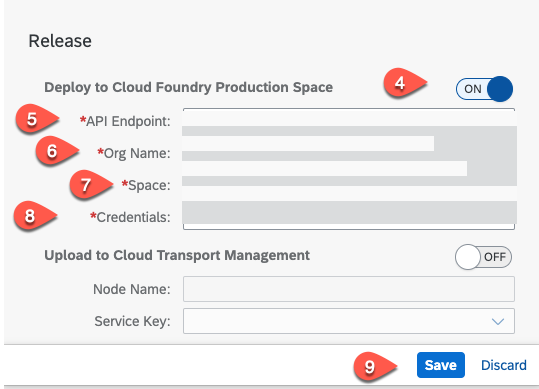
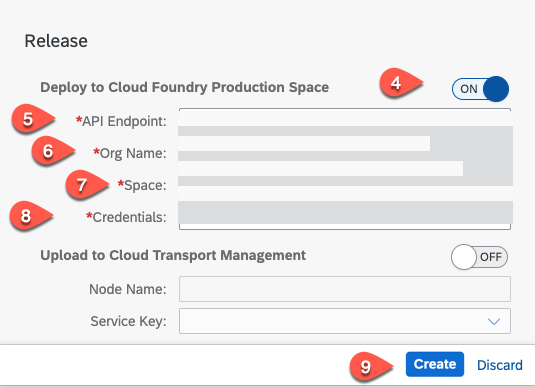
update ci cd screenshots

diff --git a/mission/ci-cd-service/README.md b/mission/ci-cd-service/README.md
@@ -108,17 +108,17 @@ We recommend using a technical user. However, you can use also use your cloud cr
     
 7. Select the **Repositories** tab and then choose the **+** icon to create a new repository.
 8. In the **Add Repository** screen enter the following values:
-   * In the **Name** field set the name for the repository for example: cloud-extension-html5-mission
+   * In the **Name** field set the name for the repository for example: cloud-extension-html5-sample
    * In the **Clone URL** set the clone URL of your GitHub repository
-   * In the **Credentials** field choose the credentials for your GitHub repository which you created in step 6  - it is necessary for private GitHub repositories.
+   * In the **Credentials** field, choose the credentials for your GitHub repository which you created in step 6  - it is necessary for private GitHub repositories.
    * In the **Type** field choose GitHub   
    * In the **Webhook Credential** field choose **\<GENERATE\>**
-   * Keep the **State** field on
+   * Keep the **State** field as **ON**
    * **Add** the repository  
    
    ![create repository](./images/repository1.png)
 
-9. Select the created repository. On the right top choose the ... and then choose **Webhook Data**.
+9. Select the created repository. On the right top choose the symbol '**...**' and then choose **Webhook Data**.
 
    ![create repository](./images/repository2.png)
 
@@ -157,7 +157,7 @@ We recommend using a technical user. However, you can use also use your cloud cr
    - In the **API Entpoint** and **Org Name** fields set the values from step 11.
    - In the **Space** field set the value form step 12.
    - In the **Credential** field select the credentials for your SAP BTP account that you have created in step 6.
-   - Choose **Save** 
+   - Choose **Create** 
 
    ![create CICD Job](./images/cicdjob2.png)
    ![create CICD Job](./images/cicdjob2a.png)
